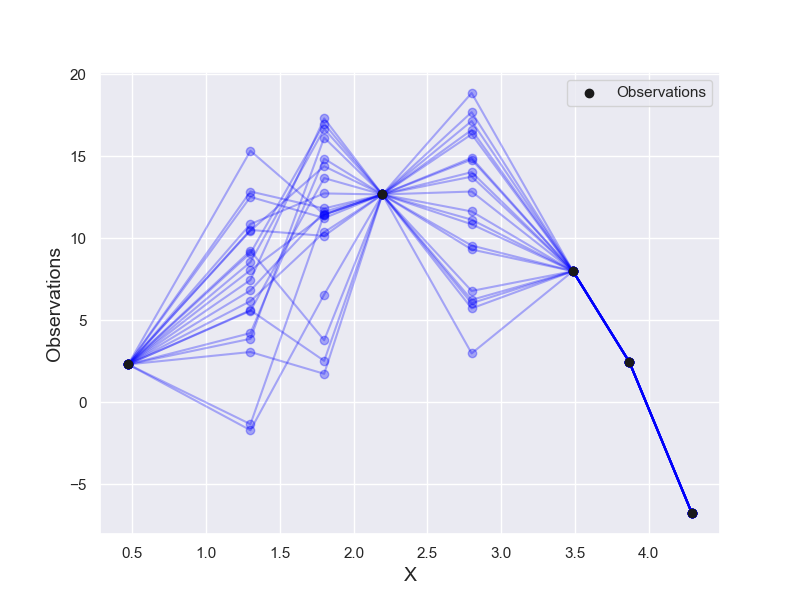
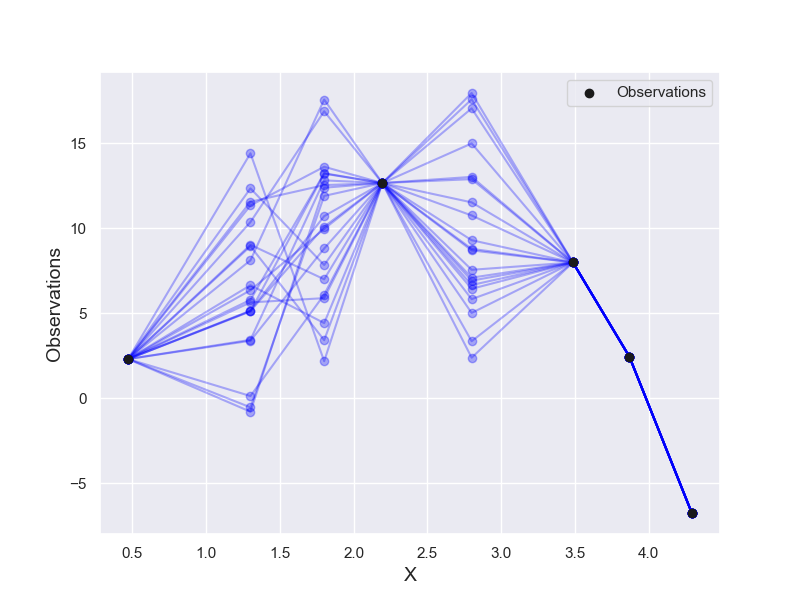
Included plot with true distribution

diff --git a/GPR/Compare.py b/GPR/Compare.py
@@ -145,11 +145,16 @@ plt.savefig("GPR/Figures/CovMatrix.png")
 # Plot the results
 fig, ax = plt.subplots(figsize=(8,10),nrows=2,sharex=True)
 #fig.suptitle("Samples from Posterior Distribution")
-plot_gpr_samples(gpr_model=gp_RBF, n_samples=4, ax=ax[0])
-plot_gpr_samples(gpr_model=gp_RQ, n_samples=4, ax=ax[1])
+plot_gpr_samples(gpr_model=gp_RBF, n_samples=0, ax=ax[0])
+plot_gpr_samples(gpr_model=gp_RQ, n_samples=0, ax=ax[1])
+ax[0].plot(x_fine,HiddenFunc(x_fine),label='True Distribution')
+ax[1].plot(x_fine,HiddenFunc(x_fine),label='True Distribution')
 ax[0].scatter(X, y, c='r', zorder=10, label='Observations')
 ax[1].scatter(X, y, c='r', zorder=10, label='Observations')
 ax[0].set_title("Squared-Exponential Kernel")
 ax[1].set_title("Rational Qudratic Kernel")
-plt.savefig("GPR/Figures/GP.png")
+ax[0].legend()
+ax[1].legend()
+plt.savefig("GPR/Figures/GP And Sol.png")
 #plt.show()
+
